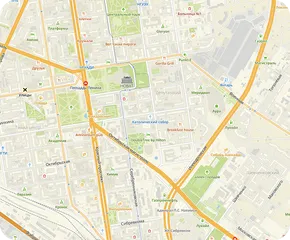
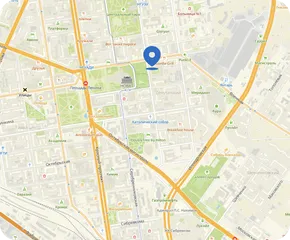
fix: заменяет фото в секции map на фото с пинами

Changed region(s): [[0.4655, 0.175, 0.5586, 0.2917], [0.869, 0.9917, 0.9, 1.0], [0.4345, 0.6125, 0.4655, 0.6417]]

diff --git a/source/sass/blocks/contacts.scss b/source/sass/blocks/contacts.scss
@@ -1,19 +1,15 @@
 .contacts {
-  padding: 70px 0;
+  padding: 75px 0 70px;
   background-color: $color-cerulean-blue;
 
-  @media (min-width: $tablet-width) {
-    // padding: 0 0 40px;
-  }
+  @media (min-width: $tablet-width) {}
 
-  @media (min-width: $desktop-width) {
-    // padding: 0 0 95px;
-  }
+  @media (min-width: $desktop-width) {}
 }
 
 .contacts__top-wrapper {
-  padding-bottom: 52px;
-  background-image: linear-gradient(to top, transparent 30px, rgba(255, 255, 255, 0.2) 32px, transparent 32px);
+  padding-bottom: 51px;
+  background-image: linear-gradient(to top, transparent 30px, rgba(255, 255, 255, 0.2) 30px, rgba(255, 255, 255, 0.2) 32px, transparent 32px);
 }
 
 .contacts__title {
@@ -26,44 +22,32 @@
 }
 
 .contacts__items-wrapper {
-  // display: flex;
-  // flex-direction: column;
-  // gap: 20px;
+  @media (min-width: $tablet-width) {
+    // display: flex;
+    // flex-direction: column;
+    // gap: 20px;
+  }
+
 }
 
 .contacts__item {
   &:has(.contacts__address-text) {
-  margin-bottom: 20px;
+    margin-bottom: 20px;
   }
 
   &:not(:last-child):has(.contacts__link) {
-  margin-bottom: 10px;
-  }
-  // margin-bottom: 20px;
-  // padding-left: 32px;
-  // background-size: 22px 22px;
-  // background-position: top left;
-  // background-repeat: no-repeat;
-
-  &:last-child {
-    // margin-bottom: 0;
+    margin-bottom: 10px;
   }
 
-  @media (min-width: $tablet-width) {
-    // margin-bottom: 0;
-    // padding-left: 34px;
-  }
+  @media (min-width: $tablet-width) {}
 
-  @media (min-width: $desktop-width) {
-    // padding-left: 56px;
-    // background-position: center left;
-    // background-size: 26px 26px;
-  }
+  @media (min-width: $desktop-width) {}
 }
 
 .contacts__item-title {
   margin: 0;
   margin-bottom: 5px;
+  font-size: 12px;
   font-weight: 400;
   font-style: normal;
   line-height: 1;
@@ -71,6 +55,10 @@
   text-transform: uppercase;
   color: rgba(240, 239, 233, 0.8);
   word-break: break-word;
+
+  .contacts__item:has(.contacts__address-text) & {
+    margin-bottom: 15px;
+  }
 
   @media (min-width: $tablet-width) {}
 
@@ -121,20 +109,20 @@
 
   &--is-disabled {
     pointer-events: none;
-     color: $color-mischka;
+    color: $color-mischka;
   }
 
-  @media (min-width: $tablet-width) {
-
-  }
+  @media (min-width: $tablet-width) {}
 
   @media (min-width: $desktop-width) {}
 }
 
 .contacts__wrap-image {
-  // background-color: $color-lime-green;
+  border-radius: 16px;
+  background-color: $color-lime-green;
 }
 
-.contacts__image {
+.contacts__wrap-image img {
   display: block;
+  border-radius: 16px;
 }

diff --git a/source/index.html b/source/index.html
@@ -1507,8 +1507,6 @@
             </div>
           </div>
         </div>
-
-
         <div class="contacts__wrap-image">
           <picture>
             <source type="image/webp" media="(min-width: 1440px)" width="1240" height="486"

diff --git a/source/sass/common/variables.scss b/source/sass/common/variables.scss
@@ -11,6 +11,7 @@ $color-echo-blue: #acb4cb;
 $color-chambray: #3f5376;
 $color-sandrift: #ac937f;
 $color-zumthor: #c7d4da;
+$color-lime-green: #bdddc2;
 
 
 // Размеры вьюпортов
